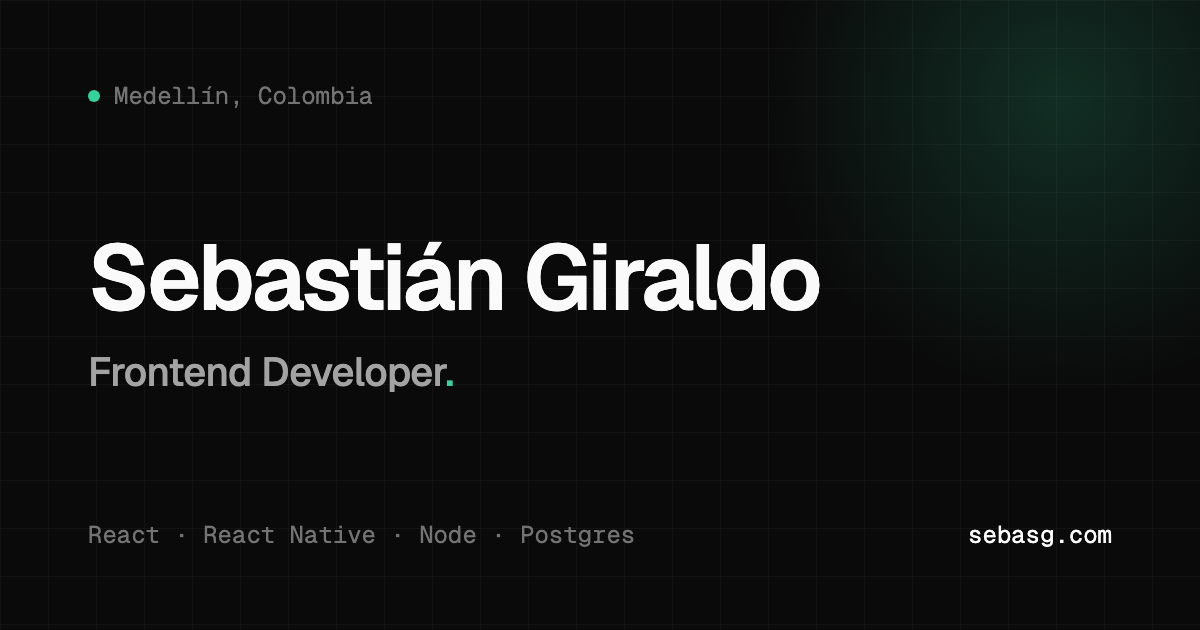
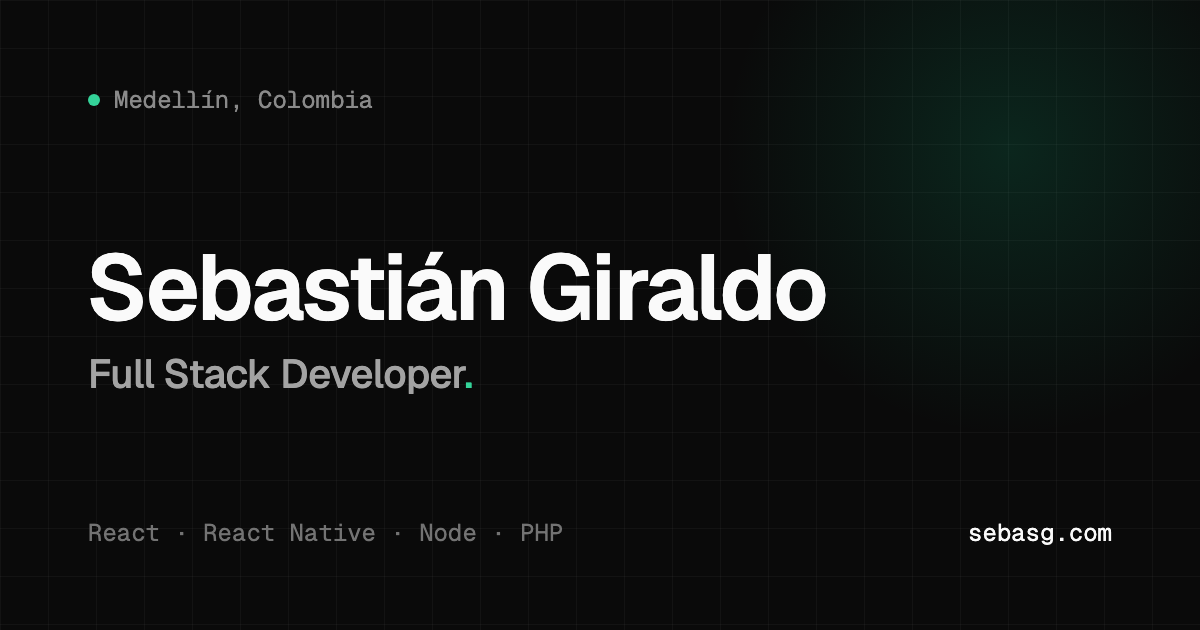
Add Experience section, Full Stack title and World Radio Clock project
- Experience timeline: Infera, Valinity, Sapiensa, Dream Venture Studio and education
- Experience link in the navbar
- Full Stack Developer in the hero, about, code card, SEO tags and share image
- World Radio Clock replaces the old clock in more projects

diff --git a/src/components/Experience.jsx b/src/components/Experience.jsx
@@ -1,0 +1,129 @@
+import { Reveal, SectionLabel } from "./ScrollReveal";
+
+// Experiencia laboral. Una empresa puede tener varios cargos (el más reciente primero).
+const jobs = [
+  {
+    company: "Infera",
+    meta: "Full-time · Remote",
+    roles: [
+      {
+        title: "Zoho CRM Developer",
+        period: "Aug 2026 — Present",
+        current: true,
+        description:
+          "CRM automations and the data sync between the company's apps and Zoho CRM: subscriptions, payments and customer events.",
+        tags: "Zoho CRM · Deluge · REST APIs",
+      },
+      {
+        title: "App Developer & Lead QA",
+        period: "Jan 2025 — Present",
+        current: true,
+        description:
+          "Mobile app features in React Native and backend work in PHP, plus payment integrations. Lead QA of the app on every release, and in charge of publishing builds to Google Play and the App Store.",
+        tags: "React Native · Expo · PHP · MySQL · Stripe",
+      },
+    ],
+  },
+  {
+    company: "Valinity",
+    meta: "Contract · Remote",
+    roles: [
+      {
+        title: "Solidity Developer",
+        period: "Jan 2026 — Mar 2026",
+        description:
+          "Smart contracts for a cryptocurrency project: liquidity pool management logic and automated bot systems for the platform.",
+        tags: "Solidity · Smart contracts · DeFi",
+      },
+    ],
+  },
+  {
+    company: "Sapiensa",
+    meta: "Freelance · Remote",
+    roles: [
+      {
+        title: "Front-end Instructor",
+        period: "Feb 2025 — Mar 2025",
+        description: "Recorded online courses on front-end development with JavaScript.",
+        tags: "JavaScript · HTML · CSS",
+      },
+    ],
+  },
+  {
+    company: "Dream Venture Studio",
+    meta: "Part-time",
+    roles: [
+      {
+        title: "Software Developer & QA",
+        period: "Sep 2023 — Aug 2024",
+        description:
+          "Built mobile apps on Bubble.io, designing their workflows and app logic, and tested them as QA before each release.",
+        tags: "Bubble.io · No-code · UX · QA",
+      },
+    ],
+  },
+];
+
+const education = {
+  title: "Software and Data Engineering",
+  school: "IU Digital de Antioquia",
+  period: "Nov 2024 — Dec 2027",
+};
+
+export default function Experience() {
+  return (
+    <section id="experience" className="mx-auto w-full max-w-5xl px-6 py-32">
+      <SectionLabel index="03">experience</SectionLabel>
+
+      <ul className="border-t border-neutral-800">
+        {jobs.map((job) => (
+          <li key={job.company}>
+            <Reveal>
+              <div className="grid gap-6 border-b border-neutral-800 py-10 md:grid-cols-[14rem_1fr] md:gap-10">
+                <div>
+                  <p className="text-2xl font-semibold tracking-tight text-neutral-100 md:text-3xl">
+                    {job.company}
+                  </p>
+                  <p className="mt-2 font-mono text-xs text-neutral-600">{job.meta}</p>
+                </div>
+
+                <div className="space-y-8 border-l border-neutral-800 pl-6">
+                  {job.roles.map((role) => (
+                    <div key={role.title} className="relative">
+                      <span
+                        aria-hidden="true"
+                        className={`absolute -left-[1.85rem] top-2 h-2.5 w-2.5 rounded-full ${
+                          role.current
+                            ? "bg-emerald-400 shadow-[0_0_12px_rgba(52,211,153,0.6)]"
+                            : "bg-neutral-700"
+                        }`}
+                      />
+                      <p className="font-mono text-xs text-neutral-500">{role.period}</p>
+                      <h3 className="mt-1 text-xl font-semibold tracking-tight text-neutral-100 md:text-2xl">
+                        {role.title}
+                      </h3>
+                      <p className="mt-2 max-w-2xl text-neutral-500">{role.description}</p>
+                      <p className="mt-3 font-mono text-xs text-neutral-600">{role.tags}</p>
+                    </div>
+                  ))}
+                </div>
+              </div>
+            </Reveal>
+          </li>
+        ))}
+      </ul>
+
+      <Reveal>
+        <div className="mt-16 grid gap-2 md:grid-cols-[14rem_1fr] md:gap-10">
+          <p className="font-mono text-xs uppercase tracking-widest text-neutral-600">education</p>
+          <div>
+            <p className="text-xl font-semibold tracking-tight text-neutral-100">{education.title}</p>
+            <p className="mt-1 text-neutral-500">
+              {education.school} · <span className="font-mono text-xs">{education.period}</span>
+            </p>
+          </div>
+        </div>
+      </Reveal>
+    </section>
+  );
+}

diff --git a/index.html b/index.html
@@ -4,8 +4,8 @@
     <meta charset="UTF-8" />
     <link rel="icon" type="image/svg+xml" href="/favicon.svg" />
     <meta name="viewport" content="width=device-width, initial-scale=1.0" />
-    <title>Sebastián Giraldo · Frontend Developer</title>
-    <meta name="description" content="Frontend developer in Medellín, Colombia. Web and mobile apps with React, React Native, Node and Postgres." />
+    <title>Sebastián Giraldo · Full Stack Developer</title>
+    <meta name="description" content="Full stack developer in Medellín, Colombia. Web and mobile apps with React, React Native, Node and Postgres." />
     <meta name="theme-color" content="#0a0a0a" />
     <meta name="author" content="Sebastián Giraldo" />
     <link rel="canonical" href="https://sebasg.com/" />
@@ -14,16 +14,16 @@
     <meta property="og:type" content="website" />
     <meta property="og:url" content="https://sebasg.com/" />
     <meta property="og:site_name" content="Sebastián Giraldo" />
-    <meta property="og:title" content="Sebastián Giraldo · Frontend Developer" />
-    <meta property="og:description" content="Frontend developer in Medellín, Colombia. Web and mobile apps with React, React Native, Node and Postgres." />
+    <meta property="og:title" content="Sebastián Giraldo · Full Stack Developer" />
+    <meta property="og:description" content="Full stack developer in Medellín, Colombia. Web and mobile apps with React, React Native, Node and Postgres." />
     <meta property="og:image" content="https://sebasg.com/og.png" />
     <meta property="og:image:width" content="1200" />
     <meta property="og:image:height" content="630" />
-    <meta property="og:image:alt" content="Sebastián Giraldo, Frontend Developer, sebasg.com" />
+    <meta property="og:image:alt" content="Sebastián Giraldo, Full Stack Developer, sebasg.com" />
     <meta property="og:locale" content="en_US" />
     <meta name="twitter:card" content="summary_large_image" />
-    <meta name="twitter:title" content="Sebastián Giraldo · Frontend Developer" />
-    <meta name="twitter:description" content="Frontend developer in Medellín, Colombia. Web and mobile apps with React, React Native, Node and Postgres." />
+    <meta name="twitter:title" content="Sebastián Giraldo · Full Stack Developer" />
+    <meta name="twitter:description" content="Full stack developer in Medellín, Colombia. Web and mobile apps with React, React Native, Node and Postgres." />
     <meta name="twitter:image" content="https://sebasg.com/og.png" />
 
     <!-- Datos estructurados para que Google identifique a la persona -->
@@ -33,7 +33,7 @@
         "@type": "Person",
         "name": "Sebastián Giraldo",
         "url": "https://sebasg.com/",
-        "jobTitle": "Frontend Developer",
+        "jobTitle": "Full Stack Developer",
         "address": { "@type": "PostalAddress", "addressLocality": "Medellín", "addressCountry": "CO" },
         "sameAs": [
           "https://github.com/Sebasg006",

diff --git a/src/components/About.jsx b/src/components/About.jsx
@@ -3,9 +3,10 @@ import { motion, useScroll, useTransform } from "framer-motion";
 import { ArrowUpRight } from "lucide-react";
 import { Reveal, ScrollText, SectionLabel } from "./ScrollReveal";
 import FeaturedWork from "./FeaturedWork";
+import Experience from "./Experience";
 
 const about =
-  "I'm a frontend developer and Software & Data Engineering student. I like turning ideas into products that feel intuitive and reliable, where design and logic work together.";
+  "I'm a full stack developer and Software & Data Engineering student. I like turning ideas into products that feel intuitive and reliable, where design and logic work together.";
 
 const skillRows = [
   ["React", "React Native", "TypeScript", "JavaScript", "Next.js", "Tailwind", "HTML", "CSS"],
@@ -13,6 +14,13 @@ const skillRows = [
 ];
 
 const projects = [
+  {
+    name: "World Radio Clock",
+    description: "Pick a city, see its local time on a live analog clock and listen to its radio stations.",
+    tags: "React · Intl API · Radio Browser API",
+    live: "https://radio.sebasg.com",
+    repo: "https://github.com/Sebasg006/world-radio-clock",
+  },
   {
     name: "Foodie",
     description: "Responsive landing page for a healthy food delivery brand.",
@@ -25,12 +33,6 @@ const projects = [
     description: "Prototype of a mobile app, built with Expo and React Native.",
     tags: "React Native · Expo · TypeScript",
     repo: "https://github.com/Sebasg006/OQUA",
-  },
-  {
-    name: "Clock",
-    description: "A clock application built with React.",
-    tags: "React · CSS",
-    repo: "https://github.com/Sebasg006/clock-wirh-react-native",
   },
 ];
 
@@ -79,10 +81,12 @@ export default function About() {
 
       <Skills />
 
+      <Experience />
+
       <FeaturedWork />
 
       <section id="projects" className="mx-auto w-full max-w-5xl px-6 py-32">
-        <SectionLabel index="04">more projects</SectionLabel>
+        <SectionLabel index="05">more projects</SectionLabel>
         <ul className="border-t border-neutral-800">
           {projects.map((project, i) => (
             <li key={project.name}>

diff --git a/src/components/CodeStage.jsx b/src/components/CodeStage.jsx
@@ -22,7 +22,7 @@ const lines = [
   { tokens: [["    <", c.key], ["article", c.tag], [" className", c.attr], ["=", c.key], ['"card"', c.str], [">", c.key]], step: "card" },
   { tokens: [["      <", c.key], ["Avatar", c.tag], [" initials", c.attr], ["=", c.key], ['"SG"', c.str], [" />", c.key]], step: "avatar" },
   { tokens: [["      <", c.key], ["h3", c.tag], [">", c.key], ["Sebastián Giraldo", c.txt], ["</", c.key], ["h3", c.tag], [">", c.key]], step: "name" },
-  { tokens: [["      <", c.key], ["p", c.tag], [">", c.key], ["Frontend developer", c.txt], ["</", c.key], ["p", c.tag], [">", c.key]], step: "role" },
+  { tokens: [["      <", c.key], ["p", c.tag], [">", c.key], ["Full stack developer", c.txt], ["</", c.key], ["p", c.tag], [">", c.key]], step: "role" },
   { tokens: [["      <", c.key], ["Stack", c.tag], [" items", c.attr], ["=", c.key], ["{", c.key], ['["React", "Node", "SQL"]', c.str], ["}", c.key], [" />", c.key]], step: "stack" },
   { tokens: [["      <", c.key], ["Button", c.tag], [">", c.key], ["Let's talk", c.txt], ["</", c.key], ["Button", c.tag], [">", c.key]], step: "button" },
   { tokens: [["    </", c.key], ["article", c.tag], [">", c.key]] },
@@ -164,7 +164,7 @@ export default function CodeStage() {
                     </h3>
                   </Piece>
                   <Piece show={done("role")}>
-                    <p className="mt-1 text-sm text-neutral-500">Frontend developer</p>
+                    <p className="mt-1 text-sm text-neutral-500">Full stack developer</p>
                   </Piece>
                   <Piece show={done("stack")}>
                     <ul className="mt-5 flex gap-2 font-mono text-xs">

diff --git a/src/components/FeaturedWork.jsx b/src/components/FeaturedWork.jsx
@@ -86,7 +86,7 @@ export default function FeaturedWork() {
   return (
     <section id="work" aria-label="Selected work">
       <div className="mx-auto w-full max-w-5xl px-6 pt-32">
-        <SectionLabel index="03">selected work</SectionLabel>
+        <SectionLabel index="04">selected work</SectionLabel>
 
         <Reveal>
           <div className="flex items-center gap-4 md:gap-6">

diff --git a/src/components/Contact.jsx b/src/components/Contact.jsx
@@ -26,7 +26,7 @@ export default function Contact() {
       className="mx-auto flex min-h-screen w-full max-w-5xl flex-col justify-between px-6 pb-10 pt-32"
     >
       <div>
-        <SectionLabel index="05">contact</SectionLabel>
+        <SectionLabel index="06">contact</SectionLabel>
 
         <motion.h2
           style={{ scale, opacity }}

diff --git a/src/constants/index.jsx b/src/constants/index.jsx
@@ -1,5 +1,6 @@
 export const navItems = [
   { label: "about", href: "#about" },
+  { label: "experience", href: "#experience" },
   { label: "work", href: "#work" },
   { label: "projects", href: "#projects" },
   { label: "contact", href: "#contact" },

diff --git a/src/components/Hero.jsx b/src/components/Hero.jsx
@@ -46,7 +46,7 @@ function Intro() {
         {...fadeUp(0.1)}
         className="mt-3 text-2xl text-neutral-400 md:text-3xl"
       >
-        Frontend developer
+        Full stack developer
       </motion.p>
 
       <motion.p
